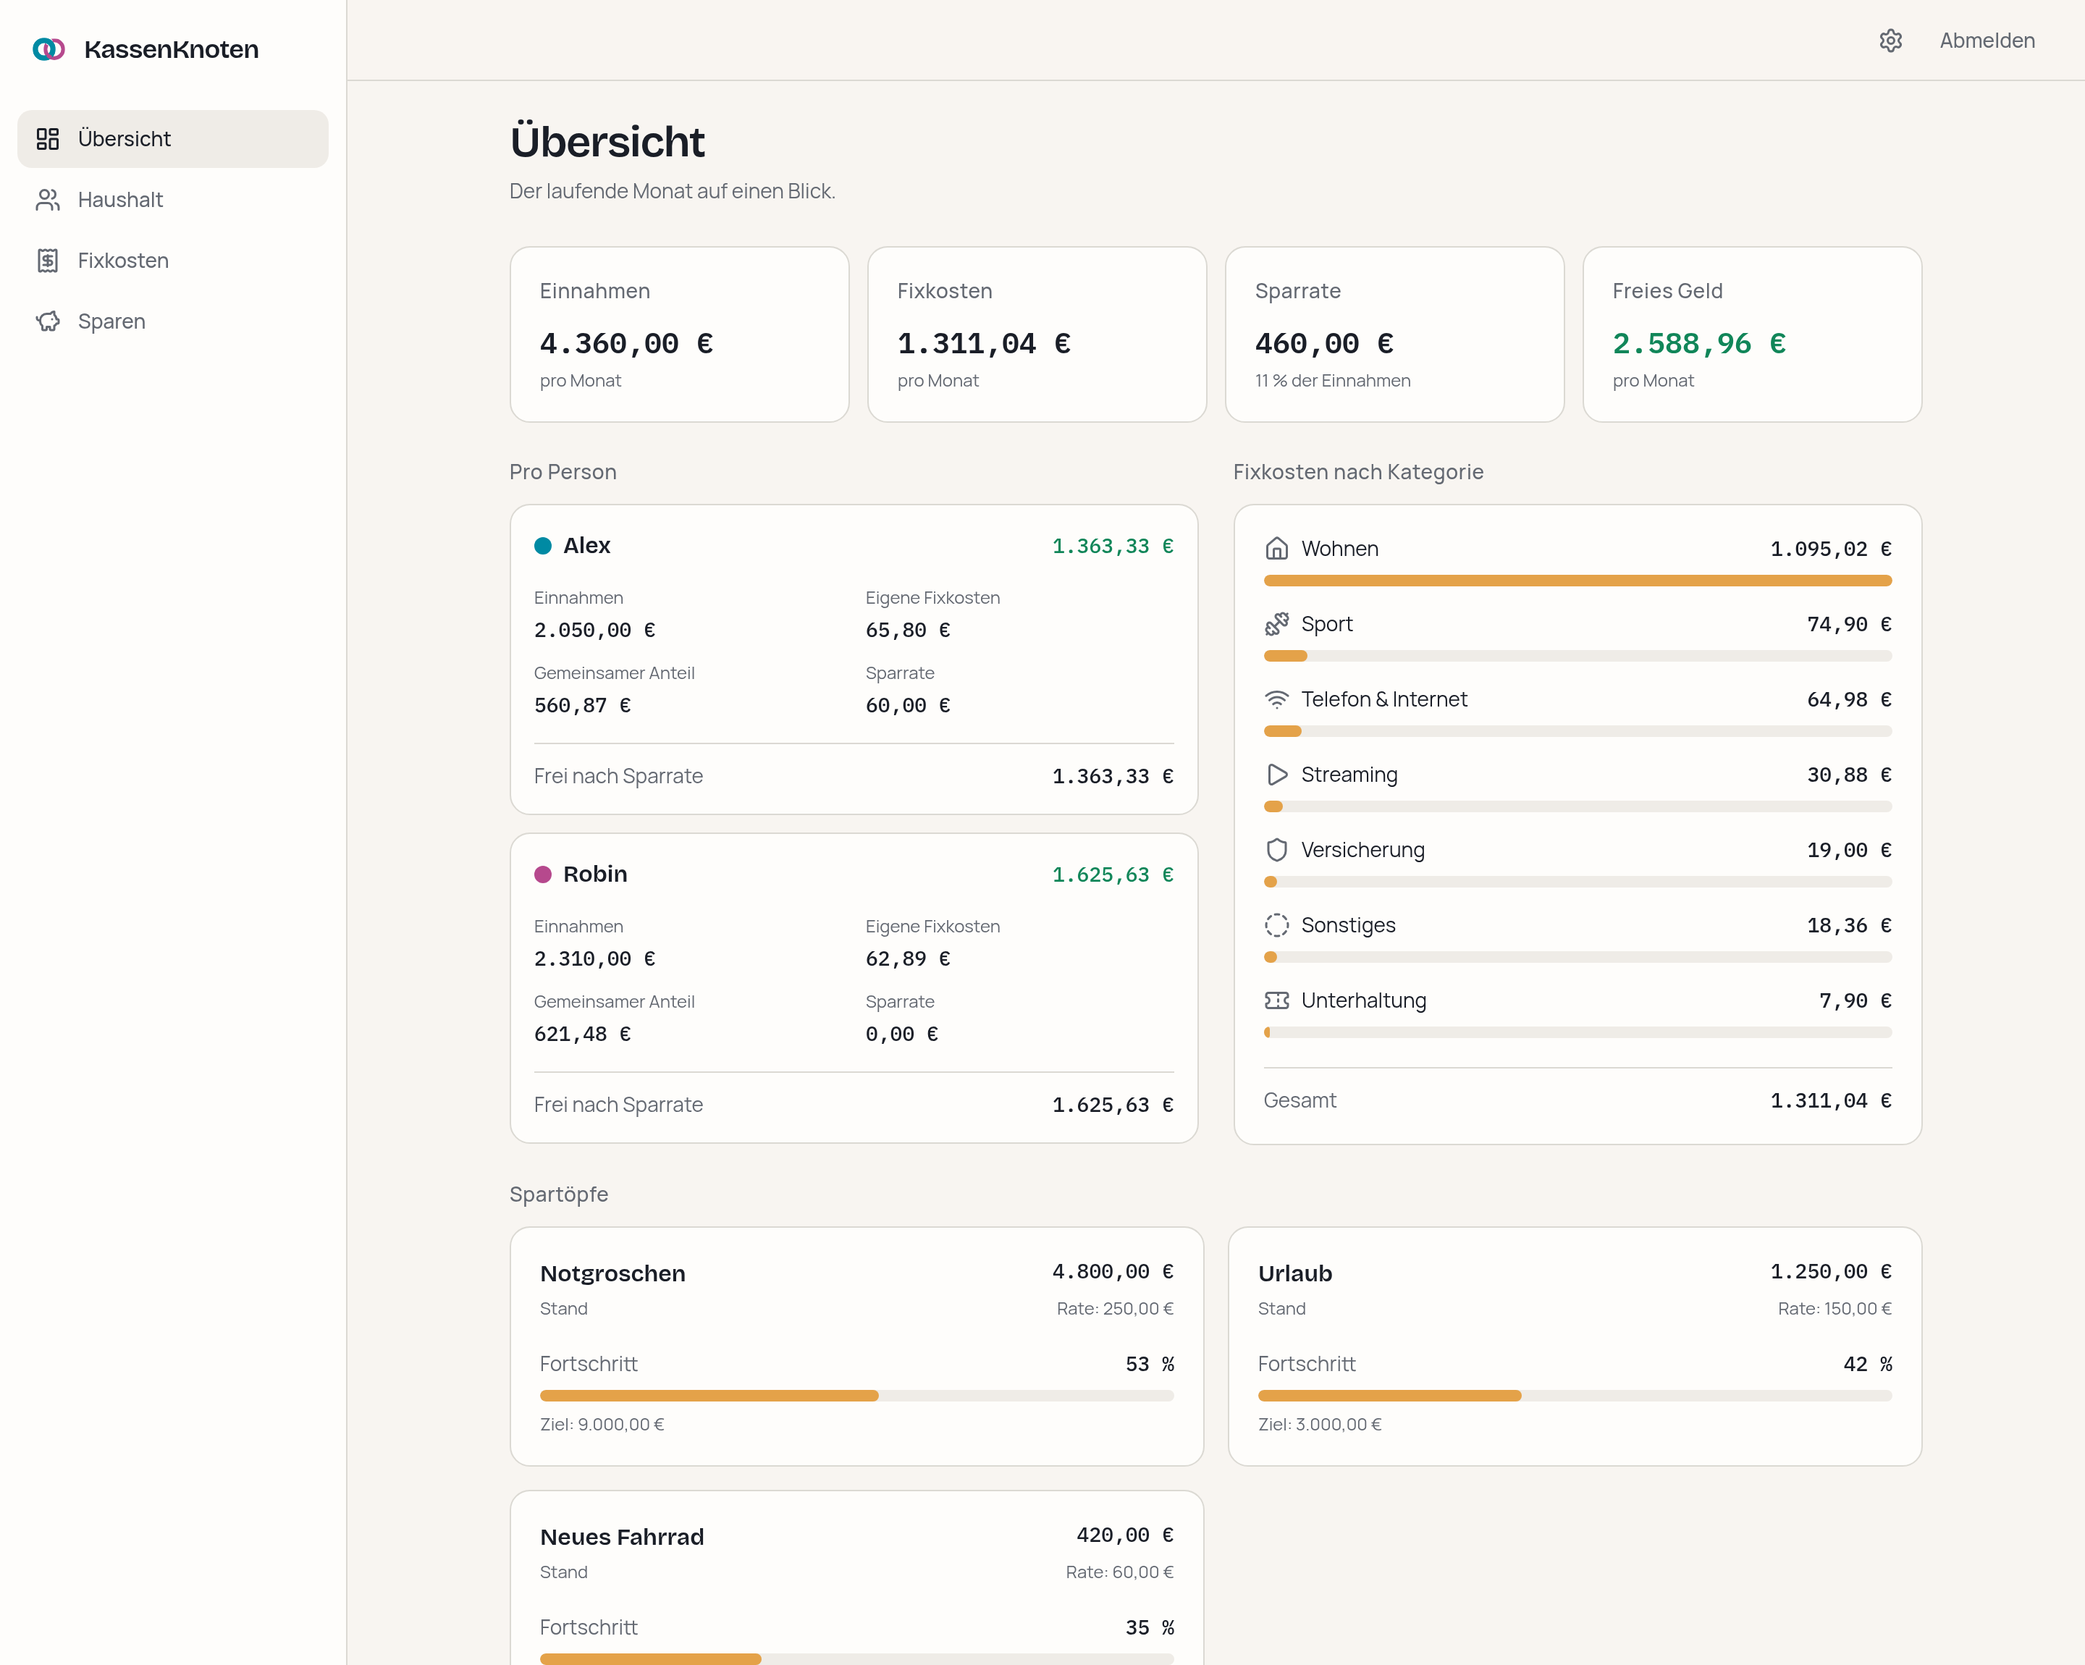
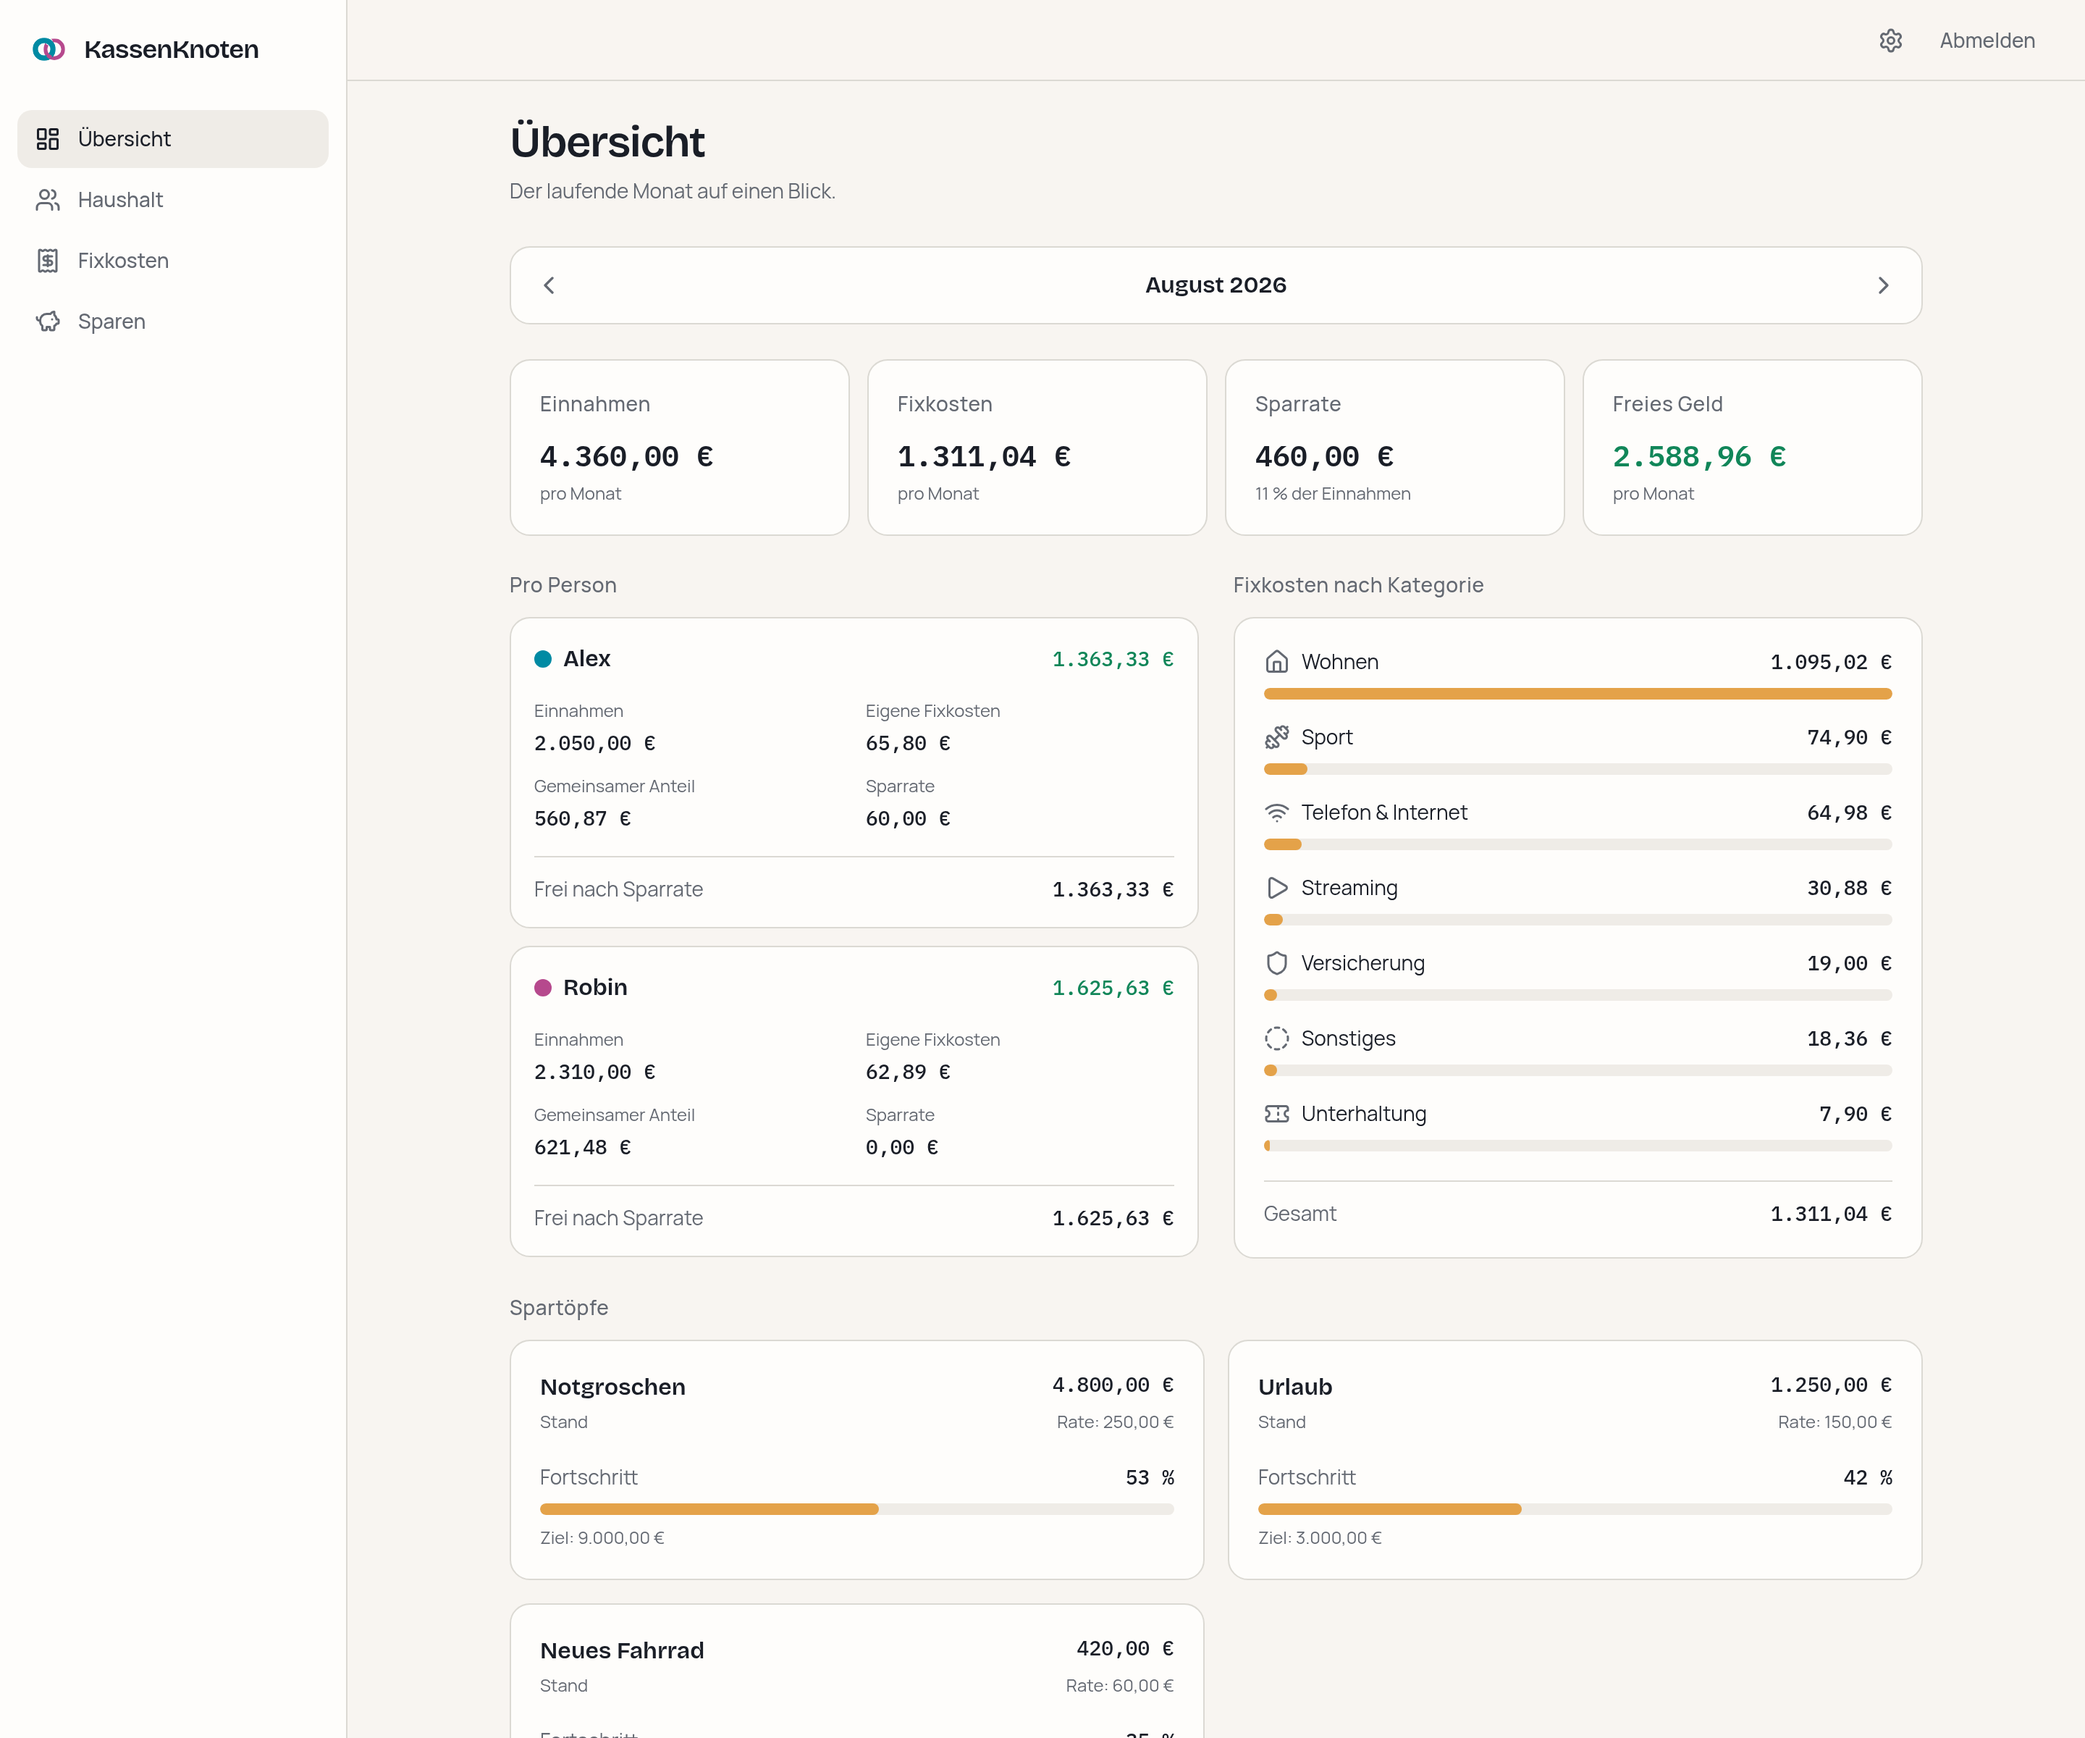
docs: cut 1.0.0-beta.2
Effective dating is the headline of this release and the README did not mention
it, so the feature list now says what it does: a raise in September leaves
August reporting August, and the app asks what a changed amount means rather
than guessing.

The dashboard screenshot predates the month navigation and no longer showed the
product; retaken from a container running the documented example household.

Claude-Session: https://claude.ai/code/session_01YSX3jGzQ2iQCa8F5ZsjqM7

diff --git a/README.md b/README.md
@@ -10,7 +10,7 @@ A self-hosted household finance planner for people who share costs unevenly —
 and want the maths to be exactly right.
 
 [![License: MIT](https://img.shields.io/badge/License-MIT-e4a249?style=flat-square)](LICENSE)
-[![Release](https://img.shields.io/badge/release-v1.0.0--beta.1-008aa3?style=flat-square)](https://github.com/jankln/KassenKnoten/releases)
+[![Release](https://img.shields.io/badge/release-v1.0.0--beta.2-008aa3?style=flat-square)](https://github.com/jankln/KassenKnoten/releases)
 [![Self-hosted](https://img.shields.io/badge/self--hosted-Docker-b6498d?style=flat-square)](#run-it)
 [![UI](https://img.shields.io/badge/UI-Deutsch-008aa3?style=flat-square)](#a-note-on-language)
 
@@ -42,6 +42,12 @@ item, never assumed. The household default only pre-fills the form.
 points, and splits use the largest-remainder method — so 39,99 € at 50/50 becomes
 20,00 € and 19,99 €, never 39,98 € or 40,00 €. No floating point touches money anywhere
 in the codebase, and the calculation engine is a pure, unit-tested module.
+
+**Keep the past honest.** Every income and fixed cost carries the months it applies to.
+Giving someone a raise in September leaves August reporting August, and the dashboard
+steps back through the months to show what each one actually was. When an amount changes
+the app asks what that means — a new figure from a month on, or a correction to what was
+always true — and shows the resulting rows before saving.
 
 **Normalise every interval.** A 132,00 € yearly insurance shows up as 11,00 € a month
 next to everything else, without anyone dividing by twelve in their head.
